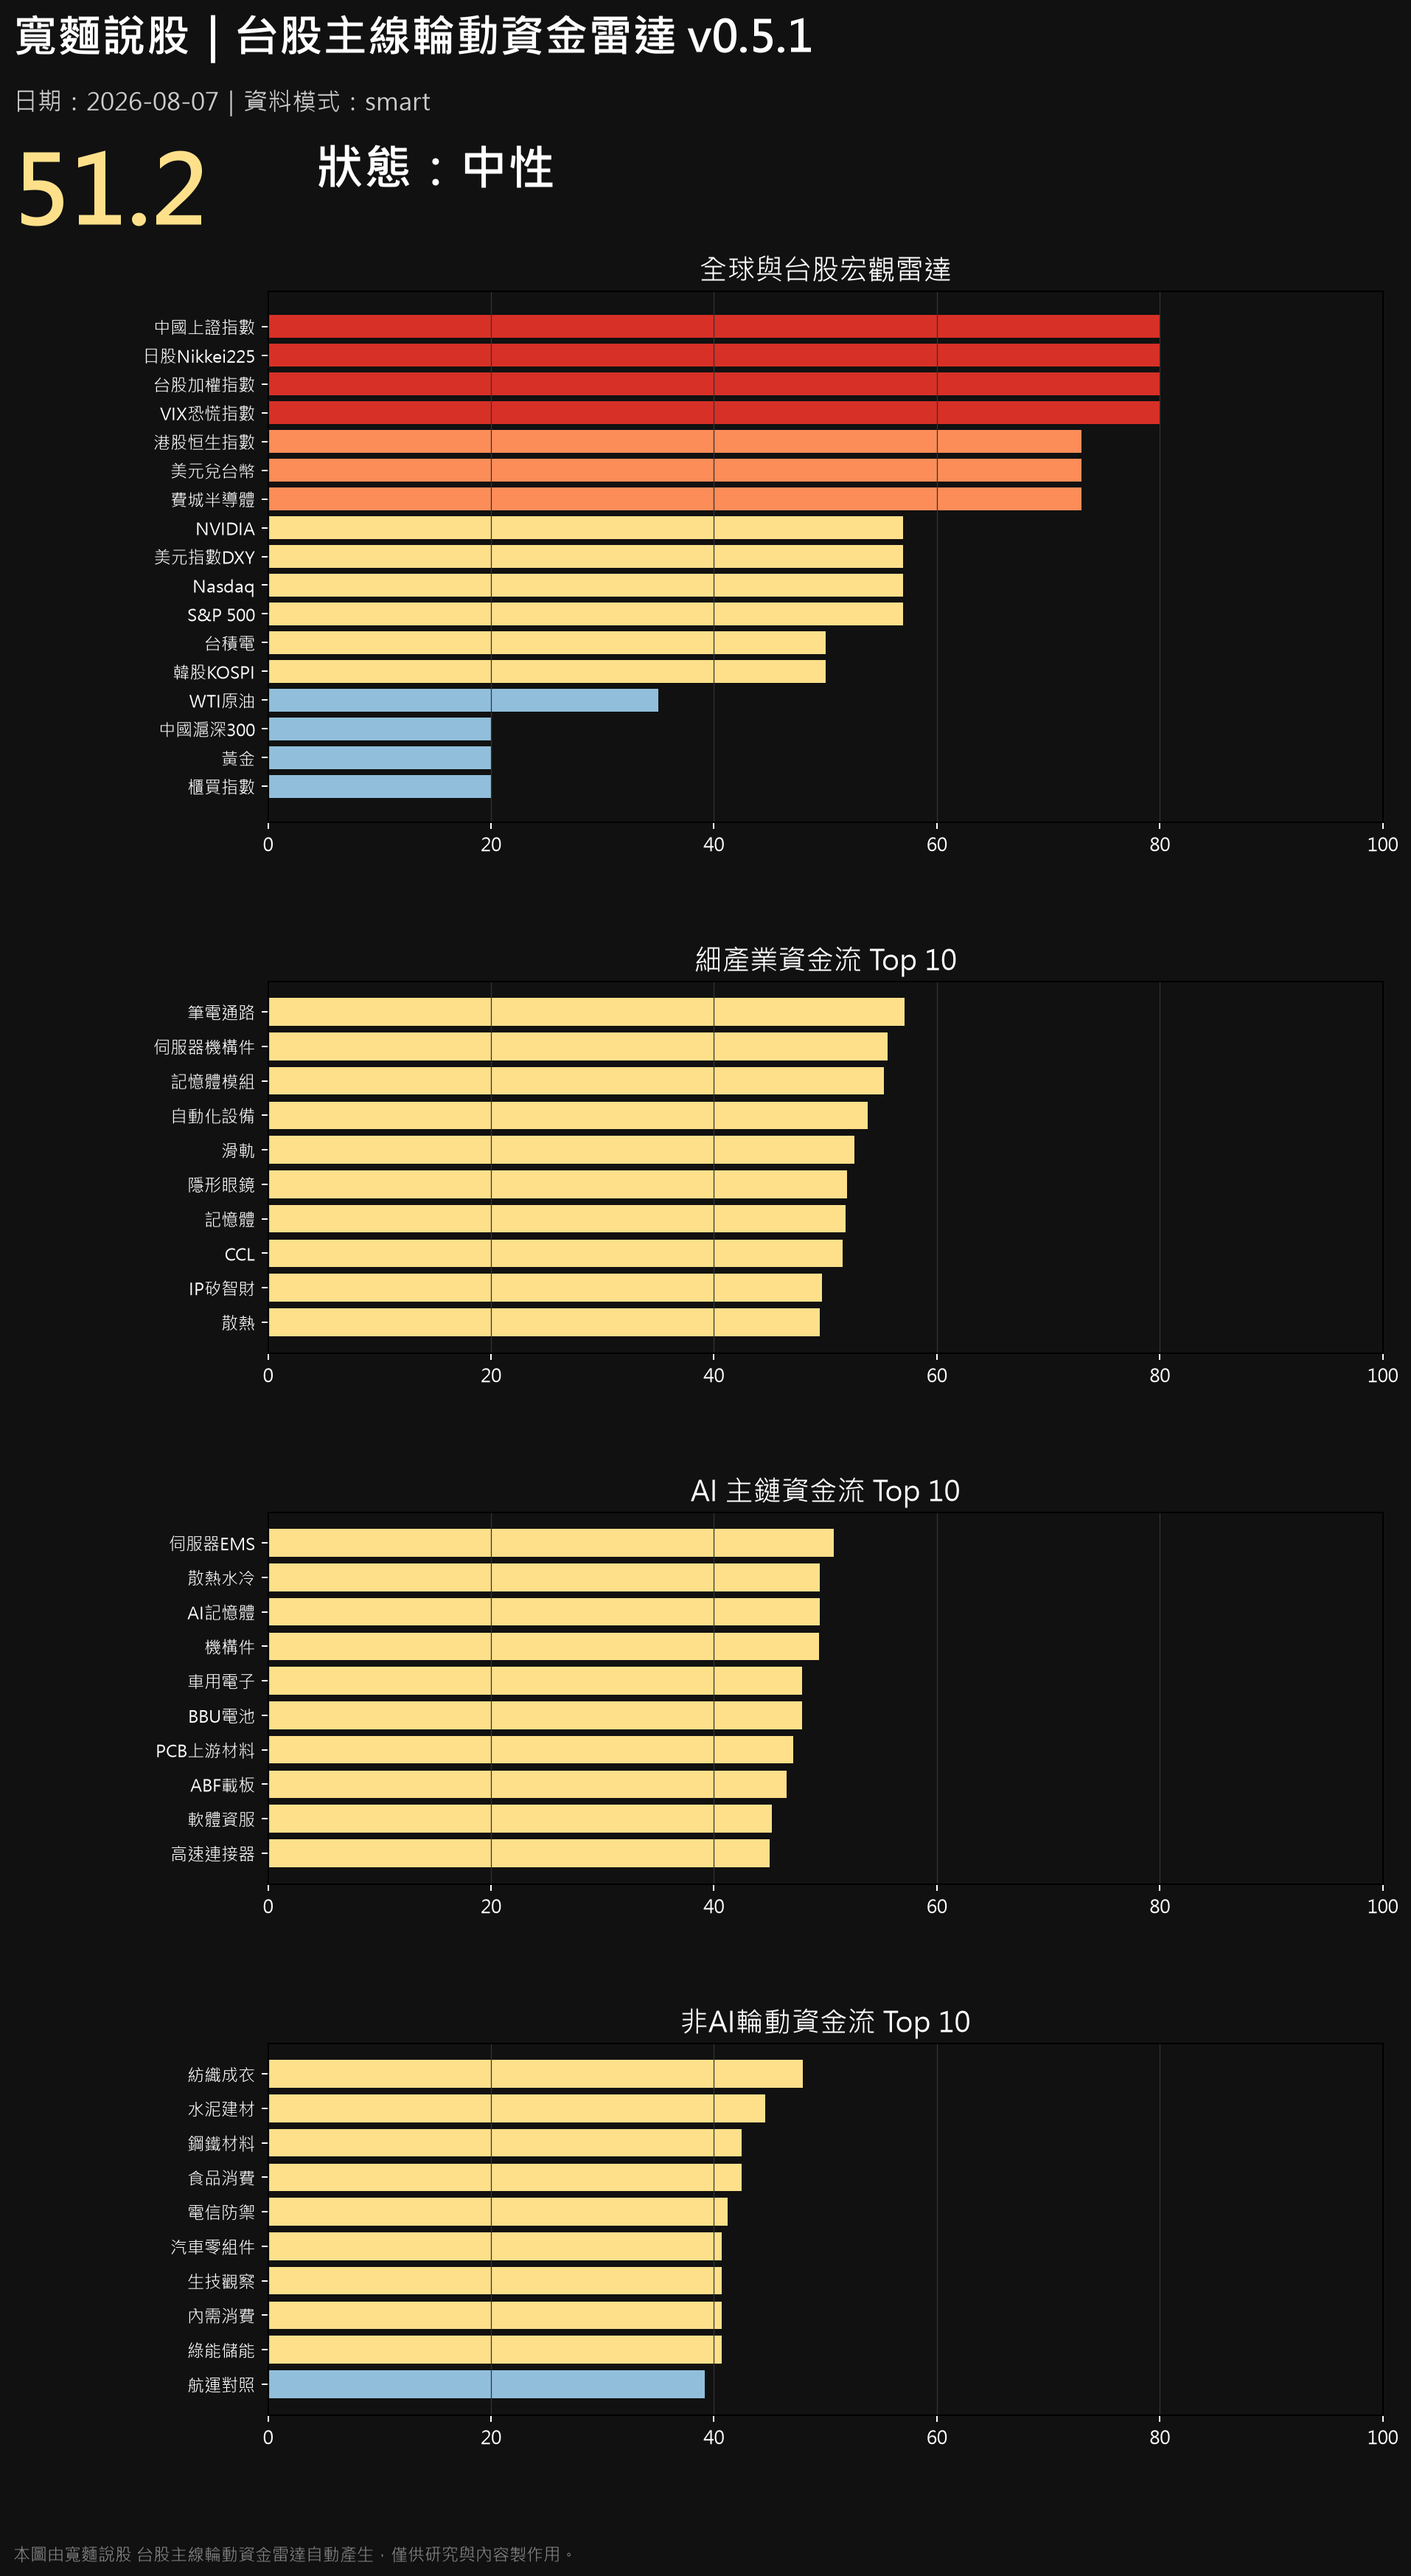
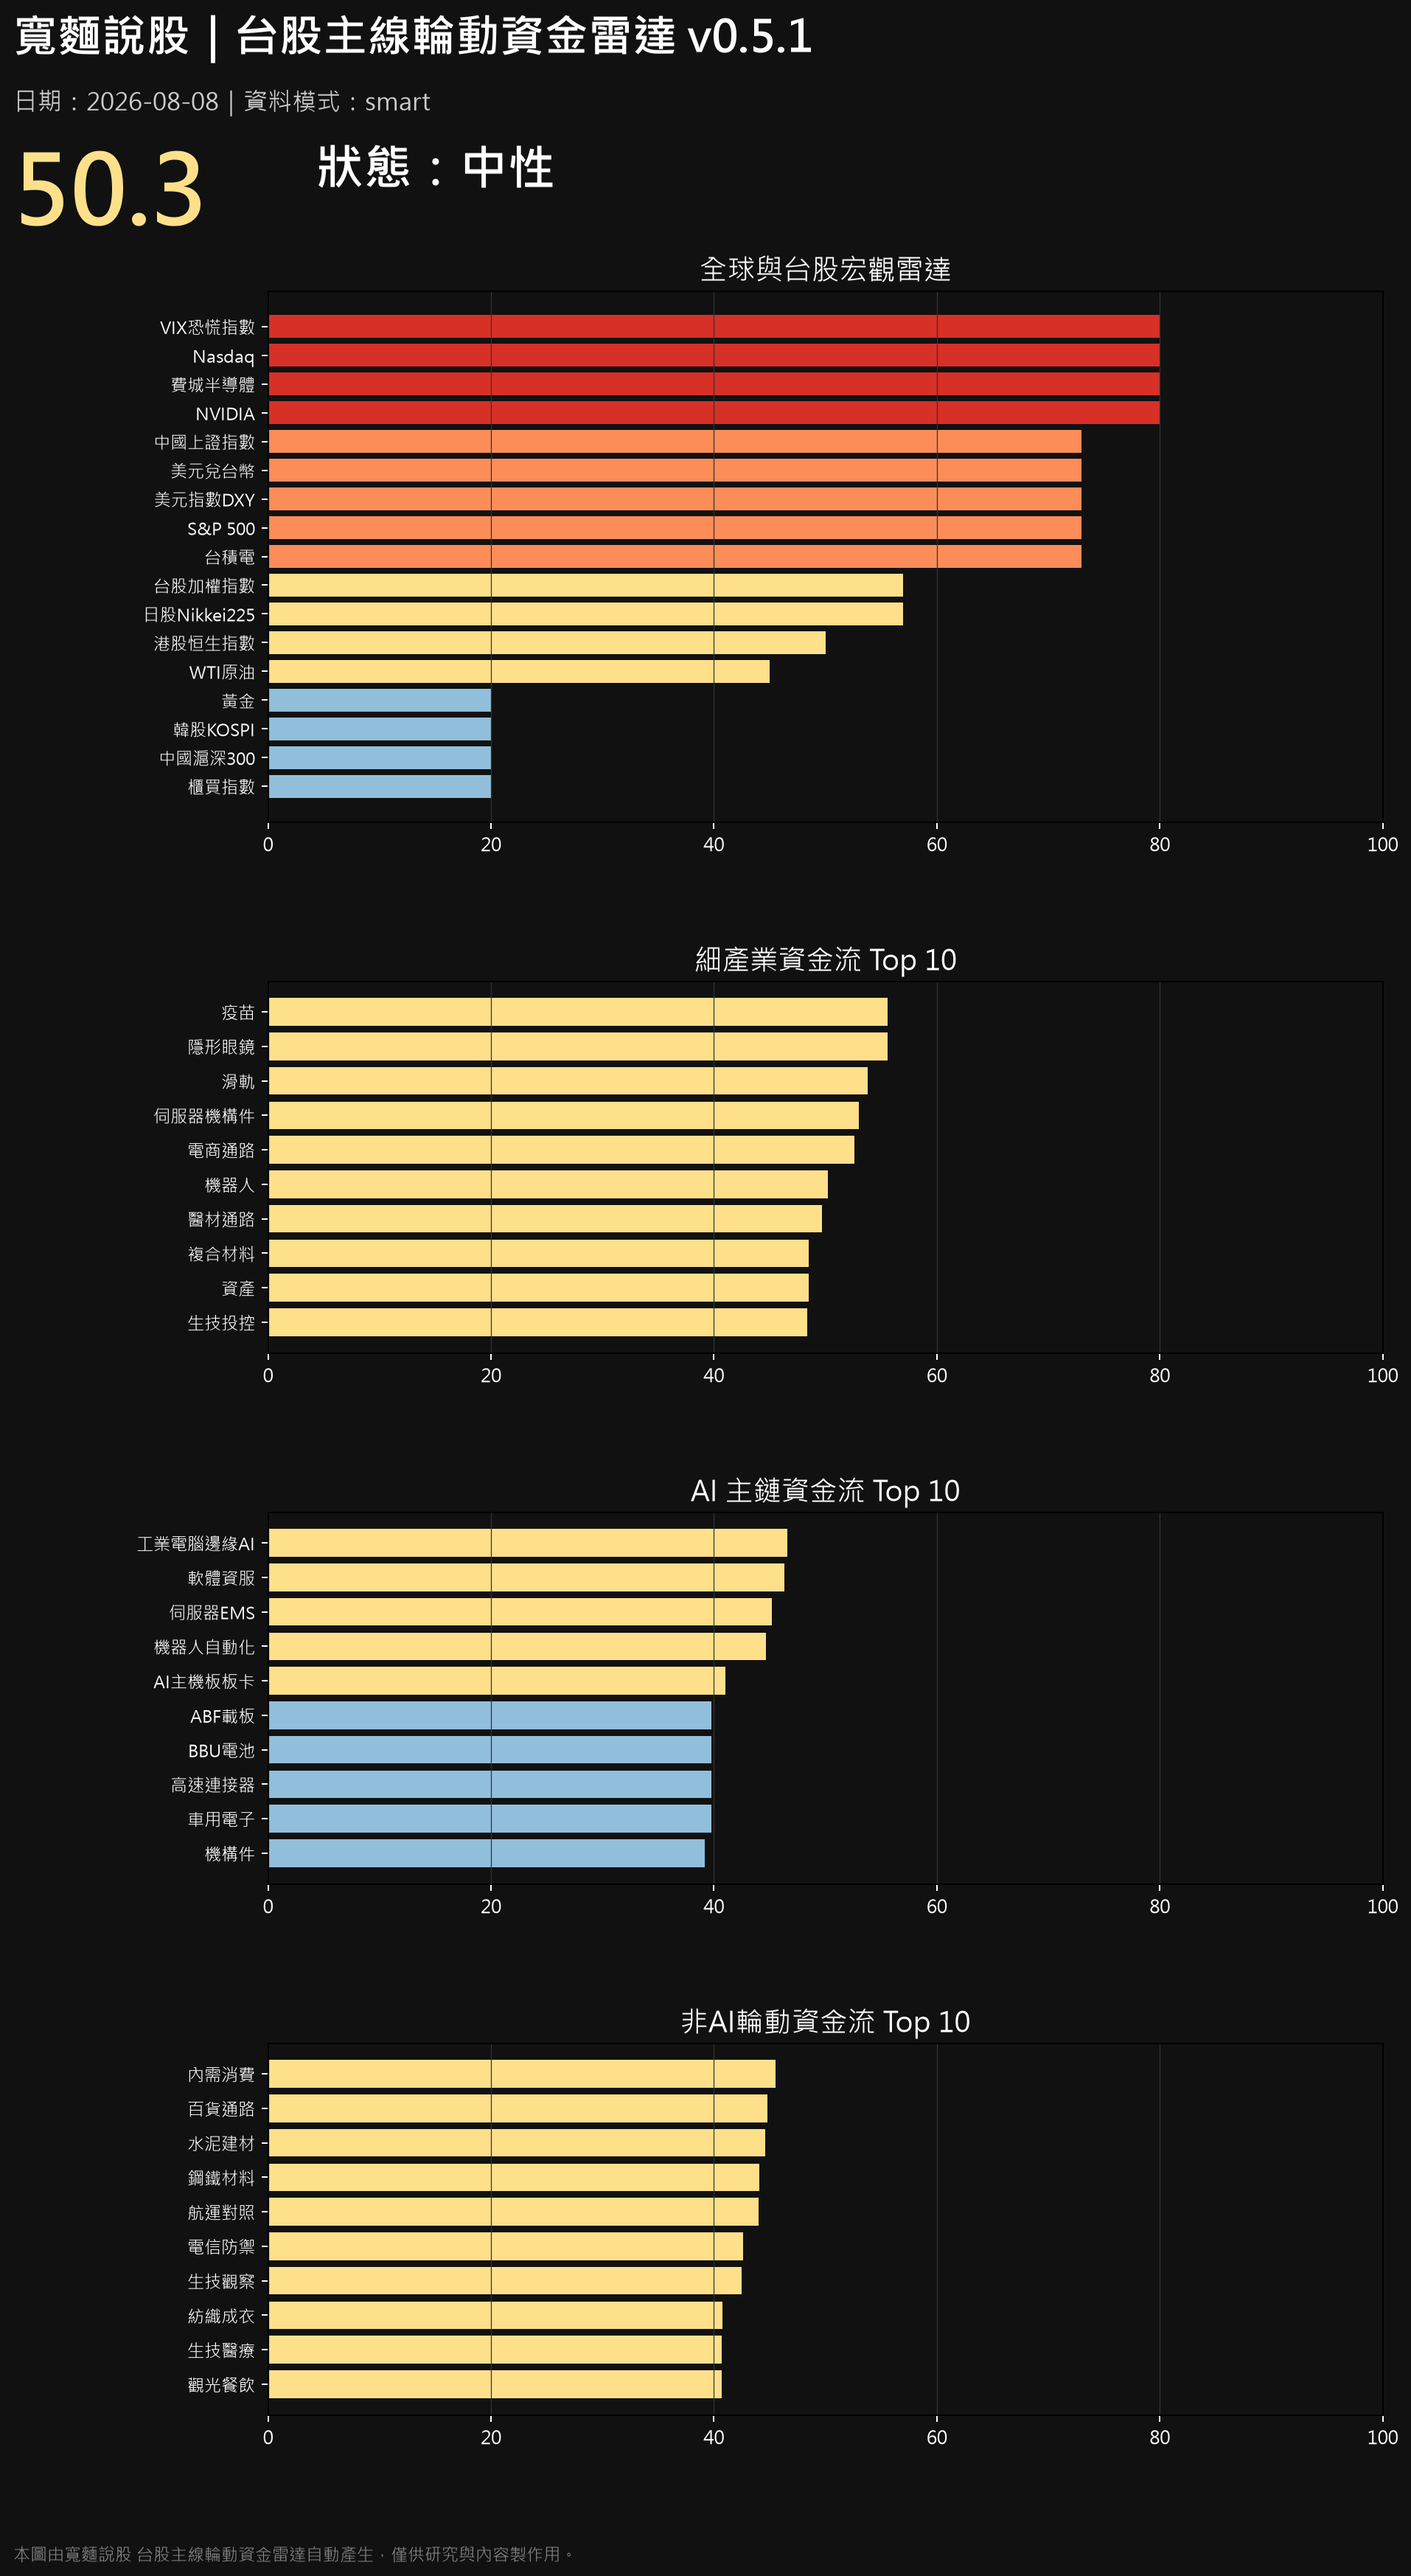
auto update radar chart 週六 2026/08/08  7:29:01.12

diff --git a/index.html b/index.html
@@ -122,7 +122,7 @@
     <section class="hero">
       <div class="brand">寬麵說股｜股海說書人</div>
       <h1>台股主線輪動資金雷達</h1>
-      <div class="updated">最後更新：2026-08-07 07:28:59</div>
+      <div class="updated">最後更新：2026-08-08 07:29:00</div>
       <div class="notice">
         每日追蹤 AI 主鏈、非AI輪動、宏觀風險與族群資金流。<br>
         本圖卡僅供研究與內容製作用，非投資建議。
@@ -130,11 +130,11 @@
     </section>
 
     <section class="dashboard-wrap">
-      <img class="dashboard" src="dashboard.png?v=20260807" alt="寬麵說股 台股主線輪動資金雷達">
+      <img class="dashboard" src="dashboard.png?v=20260808" alt="寬麵說股 台股主線輪動資金雷達">
     </section>
 
     <div class="actions">
-      <a class="btn" href="dashboard.png?v=20260807" target="_blank">開啟原圖</a>
+      <a class="btn" href="dashboard.png?v=20260808" target="_blank">開啟原圖</a>
     </div>
 
     <div class="footer">
